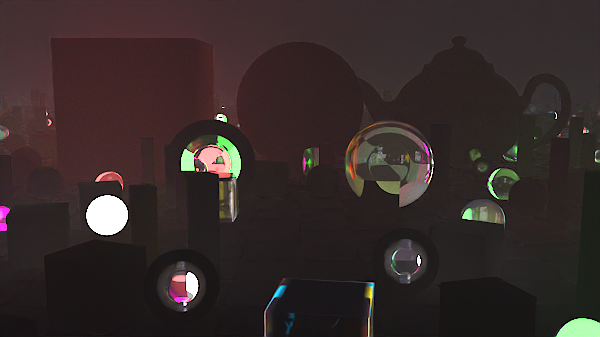
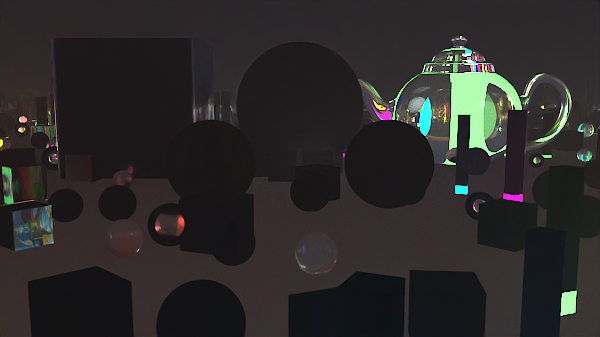
bump_materials

diff --git a/material.hpp b/material.hpp
@@ -32,9 +32,9 @@ public:
 
 protected:
 	//function to modify normal in hit_record 
-	vec3 get_bumped_normal(const hit_record& rec, shared_ptr<texture> bump_map, double strenth) const {
+	vec3 get_bumped_normal(const hit_record& rec, shared_ptr<texture> bump_map, double strength) const {
 		if (!bump_map) {
-			return; //no bump map provided
+			return rec.normal; //no bump map provided
 		}
 
 		double du = 1.0 / 1024.0; //small offset in u direction
@@ -45,8 +45,8 @@ protected:
 		double height_u = bump_map->value(rec.u + du, rec.v, rec.p).x();
 		double height_v = bump_map->value(rec.u, rec.v + dv, rec.p).x();
 
-		double f_u = (height_u  - height_center) * strenth; //height difference in u direction
-		double f_v = (height_v  - height_center) * strenth; //height difference in v direction
+		double f_u = (height_u  - height_center) * strength; //height difference in u direction
+		double f_v = (height_v  - height_center) * strength; //height difference in v direction
 
 		//N' = N - f_u * Tangent - f_v * Bitangent
 		vec3 bumped_normal = rec.normal - (f_u * rec.tangent) - (f_v * rec.bitangent);
@@ -58,14 +58,16 @@ protected:
 class lambertian : public material {
 public:
 	//constructor for solid color albedo
-	lambertian(const color& albedo, shared_ptr<texture> bump = nullptr)
+	lambertian(const color& albedo, shared_ptr<texture> bump = nullptr, double strength = 1.0)
 		: tex(make_shared<solid_color>(albedo))
 		, my_bump_texture(bump)
+		, bump_strength(strength)
 	{}
 	//constructor for texture albedo
-	lambertian(shared_ptr<texture>tex, shared_ptr<texture> bump = nullptr)
+	lambertian(shared_ptr<texture>tex, shared_ptr<texture> bump = nullptr, double strength = 1.0)
 		: tex(tex)
 		, my_bump_texture(bump)
+		, bump_strength(strength)
 	{}
 
 	bool scatter(const ray& r_in, const hit_record& rec, color& attenuation, ray& scattered) const override {
@@ -73,7 +75,7 @@ public:
 		vec3 working_normal = rec.normal;
 		//condition for bump mapping
 		if (my_bump_texture) {
-			working_normal = get_bumped_normal(rec, my_bump_texture, 2.0);
+			working_normal = get_bumped_normal(rec, my_bump_texture, bump_strength);
 		}
 
 		auto scatter_direction = working_normal + random_unit_vector();
@@ -83,7 +85,7 @@ public:
 			scatter_direction = working_normal;
 		}
 		//adjust hit point by a small epsilon to avoid self-intersection
-		point3 origin_adjusted = rec.p + rec.normal * ray_epsilon;
+		point3 origin_adjusted = rec.p + (rec.normal * ray_epsilon);
 
 		scattered = ray(origin_adjusted, scatter_direction, r_in.time());
 		//get albedo from texture
@@ -101,23 +103,26 @@ public:
 private:
 	shared_ptr<texture> tex;
 	shared_ptr<texture> my_bump_texture; //bump map texture pointer
+	double bump_strength; //bump map strength
 };
 
 //class for metal material with reflections
 class metal : public material {
 public:
 	//constructor for checker texture
-	metal(shared_ptr<texture> a, double f, shared_ptr<texture> bump = nullptr)
+	metal(shared_ptr<texture> a, double f, shared_ptr<texture> bump = nullptr, double strength = 1.0)
 		: albedo(a)
 		, fuzz(f < 1 ? f : 1) //condition for fuzziness 
 		, my_bump_texture(bump)
+		, bump_strength(strength)
 	{}
 
 	//constructor for solid color albedo(user friendly)
-	metal(const color& a, double f, shared_ptr<texture> bump = nullptr)
+	metal(const color& a, double f, shared_ptr<texture> bump = nullptr, double strength = 1.0)
 		: albedo(make_shared<solid_color>(a))
 		, fuzz(f < 1 ? f : 1) //condition for fuzziness 
 		, my_bump_texture(bump)
+		, bump_strength(strength)
 	{}
 
 	bool scatter(const ray& r_in, const hit_record& rec, color& attenuation, ray& scattered) const override {
@@ -125,7 +130,7 @@ public:
 		vec3 working_normal = rec.normal;
 		//condition for bump mapping
 		if (my_bump_texture) {
-			working_normal = get_bumped_normal(rec, my_bump_texture, 2.0);
+			working_normal = get_bumped_normal(rec, my_bump_texture, bump_strength);
 		}
 		//mirror-like reflection
 		vec3 v = unit_vector(r_in.direction());
@@ -137,7 +142,7 @@ public:
 		//moving the ray origin a bit off the surface to prevent self-intersection (shadow acne)
 		point3 shadow_orig = rec.p + (ray_epsilon * rec.normal);
 
-		scattered = ray(shadow_orig, scattered_direction);
+		scattered = ray(shadow_orig, scattered_direction, r_in.time());
 		attenuation = albedo->value(rec.u, rec.v, rec.p);
 
 		//if the scattered ray is in the same hemisphere as the normal
@@ -153,21 +158,32 @@ private:
 	shared_ptr<texture> albedo;
 	double fuzz;
 	shared_ptr<texture> my_bump_texture; //bump map texture pointer
+	double bump_strength; //bump map strength
 };
 
 //class for dielectric material always refracts
 class dielectric : public material {
 public:
-	dielectric(double refraction_index)
+	dielectric(double refraction_index, const color& a = color(1.0, 1.0, 1.0), shared_ptr<texture> bump = nullptr, double strength = 1.0)
 		: refraction_index(refraction_index)
+		, albedo(a)
+		, my_bump_texture(bump)
+		, bump_strength(strength)
 	{}
 
 	bool scatter(const ray& r_in, const hit_record& rec, color& attenuation, ray& scattered) const override {
-		attenuation = color(1.0, 1.0, 1.0); //always white, because translucent doesnt change color
+		attenuation = albedo; //adjust color for glass
+		//get normal from hit record
+		vec3 working_normal = rec.normal;
+		if (my_bump_texture) {
+			working_normal = get_bumped_normal(rec, my_bump_texture, bump_strength); //for dielectric less strenth (1.0 normally is enough)
+		}
+
 		double ri = rec.front_face ? (1.0 / refraction_index) : refraction_index; //calculation of the refractive index
 
 		vec3 unit_direction = unit_vector(r_in.direction()); //the unit direction vector of the incoming ray.
-		double cos_theta = std::fmin(dot(-unit_direction, rec.normal), 1.0); //cos of the angle of incidence
+
+		double cos_theta = std::fmin(dot(-unit_direction, working_normal), 1.0); //cos of the angle of incidence
 		double sin_theta = std::sqrt(1.0 - cos_theta * cos_theta); //sin of the angle of incidence(Piragoras)
 
 		bool cannot_refract = ri * sin_theta > 1.0; //total internal reflection
@@ -175,13 +191,18 @@ public:
 
 		//direction of the angle of incidence
 		if (cannot_refract || reflectance(cos_theta, ri) > random_double()) {
-			direction = reflect(unit_direction, rec.normal);
+			direction = reflect(unit_direction, working_normal);
 		}
 		else {
-			direction = refract(unit_direction, rec.normal, ri);
+			direction = refract(unit_direction, working_normal, ri);
 		}
 
-		scattered = ray(rec.p, direction, r_in.time()); //creates new scattered ray with beginning = rec.p and refract direction = refracted 
+		//shadow acne (translation origin point)
+		//move the ray origin a bit off the surface to prevent self-intersection
+		vec3 offset = (dot(direction, rec.normal) > 0) ? (ray_epsilon * rec.normal) : (-ray_epsilon * rec.normal);
+		point3 origin_adjusted = rec.p + offset;
+
+		scattered = ray(origin_adjusted, direction, r_in.time()); //creates new scattered ray with beginning = rec.p and refract direction = refracted 
 		return true;
 	}
 
@@ -191,8 +212,10 @@ public:
 	}
 
 private:
-	//refractive index - n
-	double refraction_index;
+	double refraction_index; //refractive index - n
+	color albedo; //color of the material
+	shared_ptr<texture> my_bump_texture; //bump map texture pointer
+	double bump_strength; //bump map strength
 	//Schlick's approximation for reflectance
 	static double reflectance(double cosine, double refraction_index) {
 		auto r0 = (1 - refraction_index) / (1 + refraction_index);

diff --git a/scene_management.hpp b/scene_management.hpp
@@ -25,19 +25,38 @@
 
 //loading materials
 void load_materials(MaterialLibrary& mat_lib) {
+	//bump map textures
+	auto wood_bump = make_shared<image_texture>("assets/bump_maps/wood_bump_map.jpg");
+	auto scratches_bump = make_shared<image_texture>("assets/bump_maps/scratches_bump_map.jpg");
+	auto concrete_bump = make_shared<image_texture>("assets/bump_maps/concrete_bump_map.jpg");
+	auto water_bump = make_shared<image_texture>("assets/bump_maps/water_bump_map.jpg");
+
 	//add some predefined materials to the library
+	mat_lib.add("water", make_shared<dielectric>(1.33, water_bump, 0.8));
+	mat_lib.add("turquoise_water", make_shared<dielectric>(1.33, color(0.85, 1.0, 0.98), water_bump, 2.0));
+
 	mat_lib.add("red_diffuse", make_shared<lambertian>(color(0.8, 0.1, 0.1)));
 	mat_lib.add("rough_gold", make_shared<metal>(color(1.0, 0.84, 0.0), 0.15));
 	mat_lib.add("light_blue_diffuse", make_shared<lambertian>(color(0.1, 0.4, 0.9)));
 	mat_lib.add("white_diffuse", make_shared<lambertian>(color(0.9, 0.9, 0.9)));
+
 	mat_lib.add("wood_texture", make_shared<lambertian>(make_shared<image_texture>("assets/textures/fine-wood.jpg")));
+	mat_lib.add("wood_bumpy_texture", make_shared<lambertian>(make_shared<image_texture>("assets/textures/fine-wood.jpg"), wood_bump, 2.0));
+
 	mat_lib.add("gold_mat", make_shared<metal>(color(1.0, 0.8, 0.4), 0.0));
+	mat_lib.add("scratched_gold_mat", make_shared<metal>(color(1.0, 0.8, 0.4), 0.0, scratches_bump, -2.0));
+
 	mat_lib.add("mirror", make_shared<metal>(color(1.0, 1.0, 1.0), 0.0));
+	mat_lib.add("scratched_mirror", make_shared<metal>(color(1.0, 1.0, 1.0), 0.0, scratches_bump, 1.0));
+
 	mat_lib.add("brushed_aluminium", make_shared<metal>(color(1.0, 1.0, 1.0), 0.25));
 	mat_lib.add("metal_colored", make_shared<metal>(color(0.2, 0.8, 0.2), 0.05));
 	mat_lib.add("checker_texture", make_shared<lambertian>(make_shared<checker_texture>(0.5, color(0.2, 0.3, 0.1), color(0.9, 0.9, 0.9))));
 	mat_lib.add("glass_bubble", make_shared<dielectric>(1.0 / 1.5));
+
 	mat_lib.add("glass", make_shared<dielectric>(1.5));
+	mat_lib.add("foggy_glass", make_shared<dielectric>(1.5, concrete_bump, 0.1));
+
 	mat_lib.add("pure_mirror", make_shared<metal>(color(1.0, 1.0, 1.0), 0.0));
 	mat_lib.add("random_diffuse", make_shared<lambertian>(color::random() * color::random()));
 	mat_lib.add("random_neon_light", make_shared<diffuse_light>(color::random(0.1, 1.0) * 1.5));
@@ -63,31 +82,31 @@ hittable_list build_geometry(MaterialLibrary& mat_lib) {
 
 	// - 1. FLOOR -
 	auto ground_geom = make_shared<sphere>(point3(0.0, -1000.0, 0.0), 1000.0, nullptr);
-	world.add(make_shared<material_instance>(ground_geom, mat_lib.get("reflective_checker_mat")));
+	world.add(make_shared<material_instance>(ground_geom, mat_lib.get("turquoise_water")));
 
 	// - 2. FREE STANDING GEOMETRIES (in the middle)
 	//
 	//teapot (loaded object .obj from the file)
 	auto teapot_base = make_shared<model>("assets/models/teapot.obj", nullptr, 0.4);
-	auto teapot_inst = make_shared<material_instance>(teapot_base, mat_lib.get("wood_texture"));
+	auto teapot_inst = make_shared<material_instance>(teapot_base, mat_lib.get("glass"));
 	auto rot_teapot_x = make_shared<rotate_x>(teapot_inst, -90.0);
 	auto rot_teapot_y = make_shared<rotate_y>(rot_teapot_x, 30.0);
 	auto teapot_final = make_shared<translate>(rot_teapot_y, point3(0.0, 1.0, -2.5));
 	world.add(teapot_final);
 	//sphere
 	auto big_sphere_geom = make_shared<sphere>(point3(0.0, 0.0, 0.0), 1.0, nullptr);
-	auto big_sphere_instance = make_shared<material_instance>(big_sphere_geom, mat_lib.get("mirror"));
+	auto big_sphere_instance = make_shared<material_instance>(big_sphere_geom, mat_lib.get("scratched_mirror"));
 	world.add(make_shared<translate>(big_sphere_instance, point3(0.0, 1.0, 0.0)));
 	//small sphere #1
 	auto small_sphere_geom = make_shared<sphere>(point3(0.0, 0.0, 0.0), 0.5, nullptr);
-	auto small_sphere_instance = make_shared<material_instance>(small_sphere_geom, mat_lib.get("glass"));
+	auto small_sphere_instance = make_shared<material_instance>(small_sphere_geom, mat_lib.get("scratched_gold_mat"));
 	world.add(make_shared<translate>(small_sphere_instance, point3(3.0, 0.5, -1.0)));
 	//small sphere #2
-	auto small_bubble_instance = make_shared<material_instance>(small_sphere_geom, mat_lib.get("glass_bubble"));
+	auto small_bubble_instance = make_shared<material_instance>(small_sphere_geom, mat_lib.get("wood_bumpy_texture"));
 	world.add(make_shared<translate>(small_bubble_instance, point3(3.0, 0.5, 1.0)));
 	//cube
 	auto big_cube_geom = make_shared<cube>(point3(0.0, 0.0, 0.0), nullptr);
-	auto big_cube_instance = make_shared<material_instance>(big_cube_geom, mat_lib.get("glass"));
+	auto big_cube_instance = make_shared<material_instance>(big_cube_geom, mat_lib.get("foggy_glass"));
 	world.add(make_shared<translate>(big_cube_instance, point3(0.0, 1.0, 2.5)));
 
 	// - 3. RANDOM SPREADED GEOMETRIES
@@ -169,7 +188,7 @@ hittable_list build_geometry(MaterialLibrary& mat_lib) {
 
 	// - 5. ENVIRONMENTAL FOG
 	auto fog_boundary = make_shared<sphere>(point3(0, 0, 0), 30.0, nullptr);
-	world.add(make_shared<constant_medium>(fog_boundary, 0.02, color(0.65, 0.55, 0.60))); //fog density: 0.01 - delicate fog, 0.1 - dense fog
+	world.add(make_shared<constant_medium>(fog_boundary, 0.05, color(0.65, 0.55, 0.60))); //fog density: 0.01 - delicate fog, 0.1 - dense fog
 
 	return world;
 }

diff --git a/cube.hpp b/cube.hpp
@@ -73,17 +73,20 @@ public:
 		rec.t = tmin; //set distance from starting point of the radius to the place of intersection
 		rec.p = r.at(rec.t);
 
-		//updated compute normal function
-		rec.normal = compute_normal(rec.p - center);
+		//calculate local vector in cube space (centered at origin)
+		vec3 local_p = rec.p - center;
+
+		//set normal,UV and tangents
+		set_cube_hit_data(local_p, rec);
 
 		rec.mat = mat; //assign cube material
 		rec.set_face_normal(r, rec.normal);
-	
+
 		return true;
 	}
 
-	void set_material(std::shared_ptr<material> m) { 
-		mat = m; 
+	void set_material(std::shared_ptr<material> m) {
+		mat = m;
 	}
 
 private:
@@ -93,17 +96,62 @@ private:
 	point3 min_p;
 	point3 max_p;
 
-	//function to determine normal vector in intersection
-	vec3 compute_normal(const point3& p) const {
+	////function to determine normal vector in intersection
+	//vec3 compute_normal(const point3& p) const {
+	//	const double EPS = 1e-3;
+
+	//	if (std::fabs(p.x() + half_extents.x()) < EPS) return vec3(-1, 0, 0); //mix_x (back face)
+	//	if (std::fabs(p.x() - half_extents.x()) < EPS) return vec3(1, 0, 0); //max_x (front face)
+
+	//	if (std::fabs(p.y() + half_extents.y()) < EPS) return vec3(0, -1, 0); //min_y (bottom face)
+	//	if (std::fabs(p.y() - half_extents.y()) < EPS) return vec3(0, 1, 0); //max_y (top face)
+
+	//	if (std::fabs(p.z() + half_extents.z()) < EPS) return vec3(0, 0, -1); //min_z (left face)
+	//	return vec3(0, 0, 1);
+	//}
+
+	//function to set hit record data (normal, UV coordinates, tangent, bitangent)
+	void set_cube_hit_data(const vec3& p, hit_record& rec) const {
 		const double EPS = 1e-3;
 
-		if (std::fabs(p.x() + half_extents.x()) < EPS) return vec3(-1, 0, 0); //mix_x (back face)
-		if (std::fabs(p.x() - half_extents.x()) < EPS) return vec3(1, 0, 0); //max_x (front face)
+		//side X (left/right)
+		if (std::fabs(p.x() + half_extents.x()) < EPS) { // MIN_X
+			rec.normal = vec3(-1, 0, 0);
+			rec.u = (p.z() + half_extents.z()) / (2 * half_extents.z());
+			rec.v = (p.y() + half_extents.y()) / (2 * half_extents.y());
+			rec.tangent = vec3(0, 0, 1);
+		} else if (std::fabs(p.x() - half_extents.x()) < EPS) { // MAX_X
+			rec.normal = vec3(1, 0, 0);
+			rec.u = (p.z() + half_extents.z()) / (2 * half_extents.z());
+			rec.v = (p.y() + half_extents.y()) / (2 * half_extents.y());
+			rec.tangent = vec3(0, 0, -1);
+		}
+		//side Y (bottom/top)
+		else if (std::fabs(p.y() + half_extents.y()) < EPS) { // MIN_Y
+			rec.normal = vec3(0, -1, 0);
+			rec.u = (p.x() + half_extents.x()) / (2 * half_extents.x());
+			rec.v = (p.z() + half_extents.z()) / (2 * half_extents.z());
+			rec.tangent = vec3(1, 0, 0);
+		} else if (std::fabs(p.y() - half_extents.y()) < EPS) { // MAX_Y
+			rec.normal = vec3(0, 1, 0);
+			rec.u = (p.x() + half_extents.x()) / (2 * half_extents.x());
+			rec.v = (p.z() + half_extents.z()) / (2 * half_extents.z());
+			rec.tangent = vec3(-1, 0, 0);
+		}
+		//side Z (front/back)
+		else if (std::fabs(p.z() + half_extents.z()) < EPS) { // MIN_Z
+			rec.normal = vec3(0, 0, -1);
+			rec.u = (half_extents.x() - p.x()) / (2 * half_extents.x());
+			rec.v = (p.y() + half_extents.y()) / (2 * half_extents.y());
+			rec.tangent = vec3(-1, 0, 0);
+		} else { // MAX_Z
+			rec.normal = vec3(0, 0, 1);
+			rec.u = (p.x() + half_extents.x()) / (2 * half_extents.x());
+			rec.v = (p.y() + half_extents.y()) / (2 * half_extents.y());
+			rec.tangent = vec3(1, 0, 0);
+		}
 
-		if (std::fabs(p.y() + half_extents.y()) < EPS) return vec3(0, -1, 0); //min_y (bottom face)
-		if (std::fabs(p.y() - half_extents.y()) < EPS) return vec3(0, 1, 0); //max_y (top face)
-
-		if (std::fabs(p.z() + half_extents.z()) < EPS) return vec3(0, 0, -1); //min_z (left face)
-		return vec3(0, 0, 1);
+		//bitangent calculation (orthogonal to normal and tangent)
+		rec.bitangent = cross(rec.normal, rec.tangent);
 	}
 };

diff --git a/main.cpp b/main.cpp
@@ -49,8 +49,8 @@ int main() {
 	camera cam;
 	//a. image aspects ratio
 	cam.aspect_ratio = 16.0 / 9.0;
-	cam.image_width = 600;
-	cam.samples_per_pixel = 800;
+	cam.image_width = 900;
+	cam.samples_per_pixel = 1500;
 	cam.max_depth = 50;
 	//b. camera settings
 	cam.vfov = 30; //vertical field of the view

diff --git a/camera.hpp b/camera.hpp
@@ -512,7 +512,6 @@ private:
 		}
 
 		//AI execution
-		std::cerr << "Applying HQ AI Denoising..." << std::endl;
 		filter.execute();
 
 		const char* err;

diff --git a/material_library.hpp b/material_library.hpp
@@ -1,5 +1,3 @@
-
-
 #pragma once
 
 #include "material.hpp"
